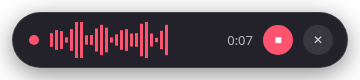
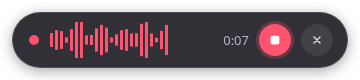
Overlay polish: draggable pill, redesigned stop button, fade in/out
- The recording pill can now be moved by click-and-drag anywhere on it
  (except the buttons). The renderer streams absolute screen coordinates
  and the main process repositions the window from the drag origin, since
  a focusable:false frameless window cannot be dragged natively. The
  chosen position is remembered for the session and clamped to the work
  area of the nearest display.
- Replaced the text-glyph stop/cancel buttons with inline SVG icons; the
  stop button gets a proper centered rounded square, hover ring and
  press feedback instead of a font-dependent "■" character.
- The pill now fades in/out (opacity + slight rise) instead of popping:
  the main process tells the renderer to fade before hiding the window.
  Softened the background alpha and tightened the box shadow, which
  banded badly on transparent windows.
- Regenerated README screenshots.

diff --git a/renderer/overlay.css b/renderer/overlay.css
@@ -25,10 +25,36 @@ body {
   margin: 12px;
   padding: 0 14px 0 16px;
   border-radius: 28px;
-  background: rgba(22, 20, 28, 0.94);
-  border: 1px solid rgba(255, 255, 255, 0.12);
-  box-shadow: 0 6px 24px rgba(0, 0, 0, 0.45);
+  background: rgba(22, 20, 28, 0.88);
+  border: 1px solid rgba(255, 255, 255, 0.14);
+  /* Tight shadow: large soft shadows band badly on transparent windows. */
+  box-shadow: 0 3px 14px rgba(0, 0, 0, 0.35);
   color: #f3f1f7;
+  cursor: grab;
+  /* Hidden until the main process sends overlay:show, so the window can
+     fade in instead of popping. */
+  opacity: 0;
+  transform: translateY(8px) scale(0.97);
+  transition:
+    opacity 0.2s ease,
+    transform 0.2s ease;
+}
+
+#pill.visible {
+  opacity: 1;
+  transform: none;
+}
+
+#pill.dragging {
+  cursor: grabbing;
+  transition: opacity 0.2s ease; /* no transform easing while dragging */
+}
+
+@media (prefers-reduced-motion: reduce) {
+  #pill {
+    transition: opacity 0.2s ease;
+    transform: none;
+  }
 }
 
 #indicator {
@@ -117,32 +143,47 @@ body {
 }
 
 button {
-  width: 30px;
-  height: 30px;
+  width: 32px;
+  height: 32px;
   border-radius: 50%;
   border: none;
   flex-shrink: 0;
   cursor: pointer;
-  font-size: 12px;
+  padding: 0;
   display: flex;
   align-items: center;
   justify-content: center;
+  background: transparent;
+  transition:
+    background 0.12s ease,
+    transform 0.12s ease;
+}
+
+button svg {
+  display: block;
+}
+
+button:active {
+  transform: scale(0.92);
 }
 
 #stop {
   background: #ff5470;
   color: #fff;
+  box-shadow: 0 0 0 3px rgba(255, 84, 112, 0.25);
 }
 
 #stop:hover {
   background: #ff7088;
+  box-shadow: 0 0 0 3px rgba(255, 84, 112, 0.4);
 }
 
 #cancel {
-  background: rgba(255, 255, 255, 0.1);
+  background: rgba(255, 255, 255, 0.08);
   color: #d6d2e0;
 }
 
 #cancel:hover {
-  background: rgba(255, 255, 255, 0.22);
+  background: rgba(255, 255, 255, 0.2);
+  color: #fff;
 }

diff --git a/main/windows.js b/main/windows.js
@@ -1,7 +1,7 @@
 // Window management: the recording overlay (a small always-on-top pill that
 // also owns the microphone) and the settings window.
 
-const { BrowserWindow, screen } = require("electron");
+const { BrowserWindow, ipcMain, screen } = require("electron");
 const path = require("node:path");
 
 const PRELOAD = path.join(__dirname, "..", "preload.js");
@@ -9,18 +9,57 @@ const RENDERER = path.join(__dirname, "..", "renderer");
 
 const OVERLAY_WIDTH = 360;
 const OVERLAY_HEIGHT = 80;
+// Matches the pill's fade-out transition in overlay.css.
+const OVERLAY_FADE_MS = 200;
 
 let overlayWindow = null;
 let settingsWindow = null;
 let wizardWindow = null;
+let overlayCustomPosition = null; // set when the user drags the pill
+let overlayDragOrigin = null; // { winX, winY, pointerX, pointerY }
+let overlayHideTimer = null;
+
+function clampToWorkArea(x, y) {
+  const { workArea } = screen.getDisplayNearestPoint({ x, y });
+  return {
+    x: Math.min(Math.max(x, workArea.x), workArea.x + workArea.width - OVERLAY_WIDTH),
+    y: Math.min(Math.max(y, workArea.y), workArea.y + workArea.height - OVERLAY_HEIGHT),
+  };
+}
 
 function overlayPosition() {
+  if (overlayCustomPosition) {
+    // Re-clamp in case displays changed since the user dragged it there.
+    return clampToWorkArea(overlayCustomPosition.x, overlayCustomPosition.y);
+  }
   const { workArea } = screen.getPrimaryDisplay();
   return {
     x: Math.round(workArea.x + (workArea.width - OVERLAY_WIDTH) / 2),
     y: Math.round(workArea.y + workArea.height - OVERLAY_HEIGHT - 24),
   };
 }
+
+// Click-and-drag for the overlay pill. The renderer streams absolute screen
+// coordinates; positioning from a recorded origin (instead of incremental
+// deltas) keeps the pill glued to the cursor even if events are dropped.
+ipcMain.on("overlay:drag-start", (event, { x, y } = {}) => {
+  const win = getOverlay();
+  if (!win || typeof x !== "number" || typeof y !== "number") return;
+  const [winX, winY] = win.getPosition();
+  overlayDragOrigin = { winX, winY, pointerX: x, pointerY: y };
+});
+
+ipcMain.on("overlay:drag", (event, { x, y } = {}) => {
+  const win = getOverlay();
+  if (!win || !overlayDragOrigin) return;
+  if (typeof x !== "number" || typeof y !== "number") return;
+  const next = clampToWorkArea(
+    Math.round(overlayDragOrigin.winX + x - overlayDragOrigin.pointerX),
+    Math.round(overlayDragOrigin.winY + y - overlayDragOrigin.pointerY)
+  );
+  win.setPosition(next.x, next.y);
+  overlayCustomPosition = next;
+});
 
 function createOverlay() {
   if (overlayWindow && !overlayWindow.isDestroyed()) return overlayWindow;
@@ -71,14 +110,27 @@ function getOverlay() {
 function showOverlay() {
   const win = getOverlay();
   if (!win) return;
+  if (overlayHideTimer) {
+    // A fade-out is in flight; this show supersedes it.
+    clearTimeout(overlayHideTimer);
+    overlayHideTimer = null;
+  }
   const { x, y } = overlayPosition();
   win.setPosition(x, y);
   win.showInactive();
+  win.webContents.send("overlay:show");
 }
 
 function hideOverlay() {
   const win = getOverlay();
-  if (win && win.isVisible()) win.hide();
+  if (!win || !win.isVisible() || overlayHideTimer) return;
+  // Let the pill fade out before the window actually disappears.
+  win.webContents.send("overlay:hide");
+  overlayHideTimer = setTimeout(() => {
+    overlayHideTimer = null;
+    const w = getOverlay();
+    if (w && w.isVisible()) w.hide();
+  }, OVERLAY_FADE_MS);
 }
 
 function sendToOverlay(channel, payload) {

diff --git a/renderer/overlay.js b/renderer/overlay.js
@@ -215,5 +215,34 @@ earheart.on("pipeline:status", ({ status, detail }) => {
   }
 });
 
+earheart.on("overlay:show", () => pill.classList.add("visible"));
+earheart.on("overlay:hide", () => pill.classList.remove("visible"));
+
 document.getElementById("stop").addEventListener("click", stopRecording);
 document.getElementById("cancel").addEventListener("click", cancelRecording);
+
+// Click-and-drag anywhere on the pill (except the buttons) moves the overlay.
+// The window itself is moved by the main process from the streamed screen
+// coordinates, since a focusable:false frameless window can't be dragged
+// natively.
+let dragging = false;
+pill.addEventListener("pointerdown", (event) => {
+  if (event.button !== 0 || event.target.closest("button")) return;
+  dragging = true;
+  pill.classList.add("dragging");
+  pill.setPointerCapture(event.pointerId);
+  earheart.send("overlay:drag-start", { x: event.screenX, y: event.screenY });
+});
+
+pill.addEventListener("pointermove", (event) => {
+  if (!dragging) return;
+  earheart.send("overlay:drag", { x: event.screenX, y: event.screenY });
+});
+
+function endDrag() {
+  dragging = false;
+  pill.classList.remove("dragging");
+}
+
+pill.addEventListener("pointerup", endDrag);
+pill.addEventListener("pointercancel", endDrag);

diff --git a/renderer/overlay.html b/renderer/overlay.html
@@ -17,8 +17,21 @@
         <span id="detail-text"></span>
       </div>
       <span id="timer">0:00</span>
-      <button id="stop" title="Stop and transcribe">■</button>
-      <button id="cancel" title="Cancel">✕</button>
+      <button id="stop" title="Stop and transcribe" aria-label="Stop and transcribe">
+        <svg viewBox="0 0 16 16" width="14" height="14" aria-hidden="true">
+          <rect x="3" y="3" width="10" height="10" rx="2.5" fill="currentColor" />
+        </svg>
+      </button>
+      <button id="cancel" title="Cancel" aria-label="Cancel">
+        <svg viewBox="0 0 16 16" width="12" height="12" aria-hidden="true">
+          <path
+            d="M4 4l8 8M12 4l-8 8"
+            stroke="currentColor"
+            stroke-width="2"
+            stroke-linecap="round"
+          />
+        </svg>
+      </button>
     </div>
     <script src="overlay.js"></script>
   </body>

diff --git a/preload.js b/preload.js
@@ -8,6 +8,8 @@ const LISTEN = new Set([
   "record:cancel",
   "pipeline:status",
   "history:changed",
+  "overlay:show",
+  "overlay:hide",
 ]);
 
 const SEND = new Set([
@@ -15,6 +17,8 @@ const SEND = new Set([
   "record:cancelled",
   "record:error",
   "pipeline:cancel",
+  "overlay:drag-start",
+  "overlay:drag",
 ]);
 
 const INVOKE = new Set([